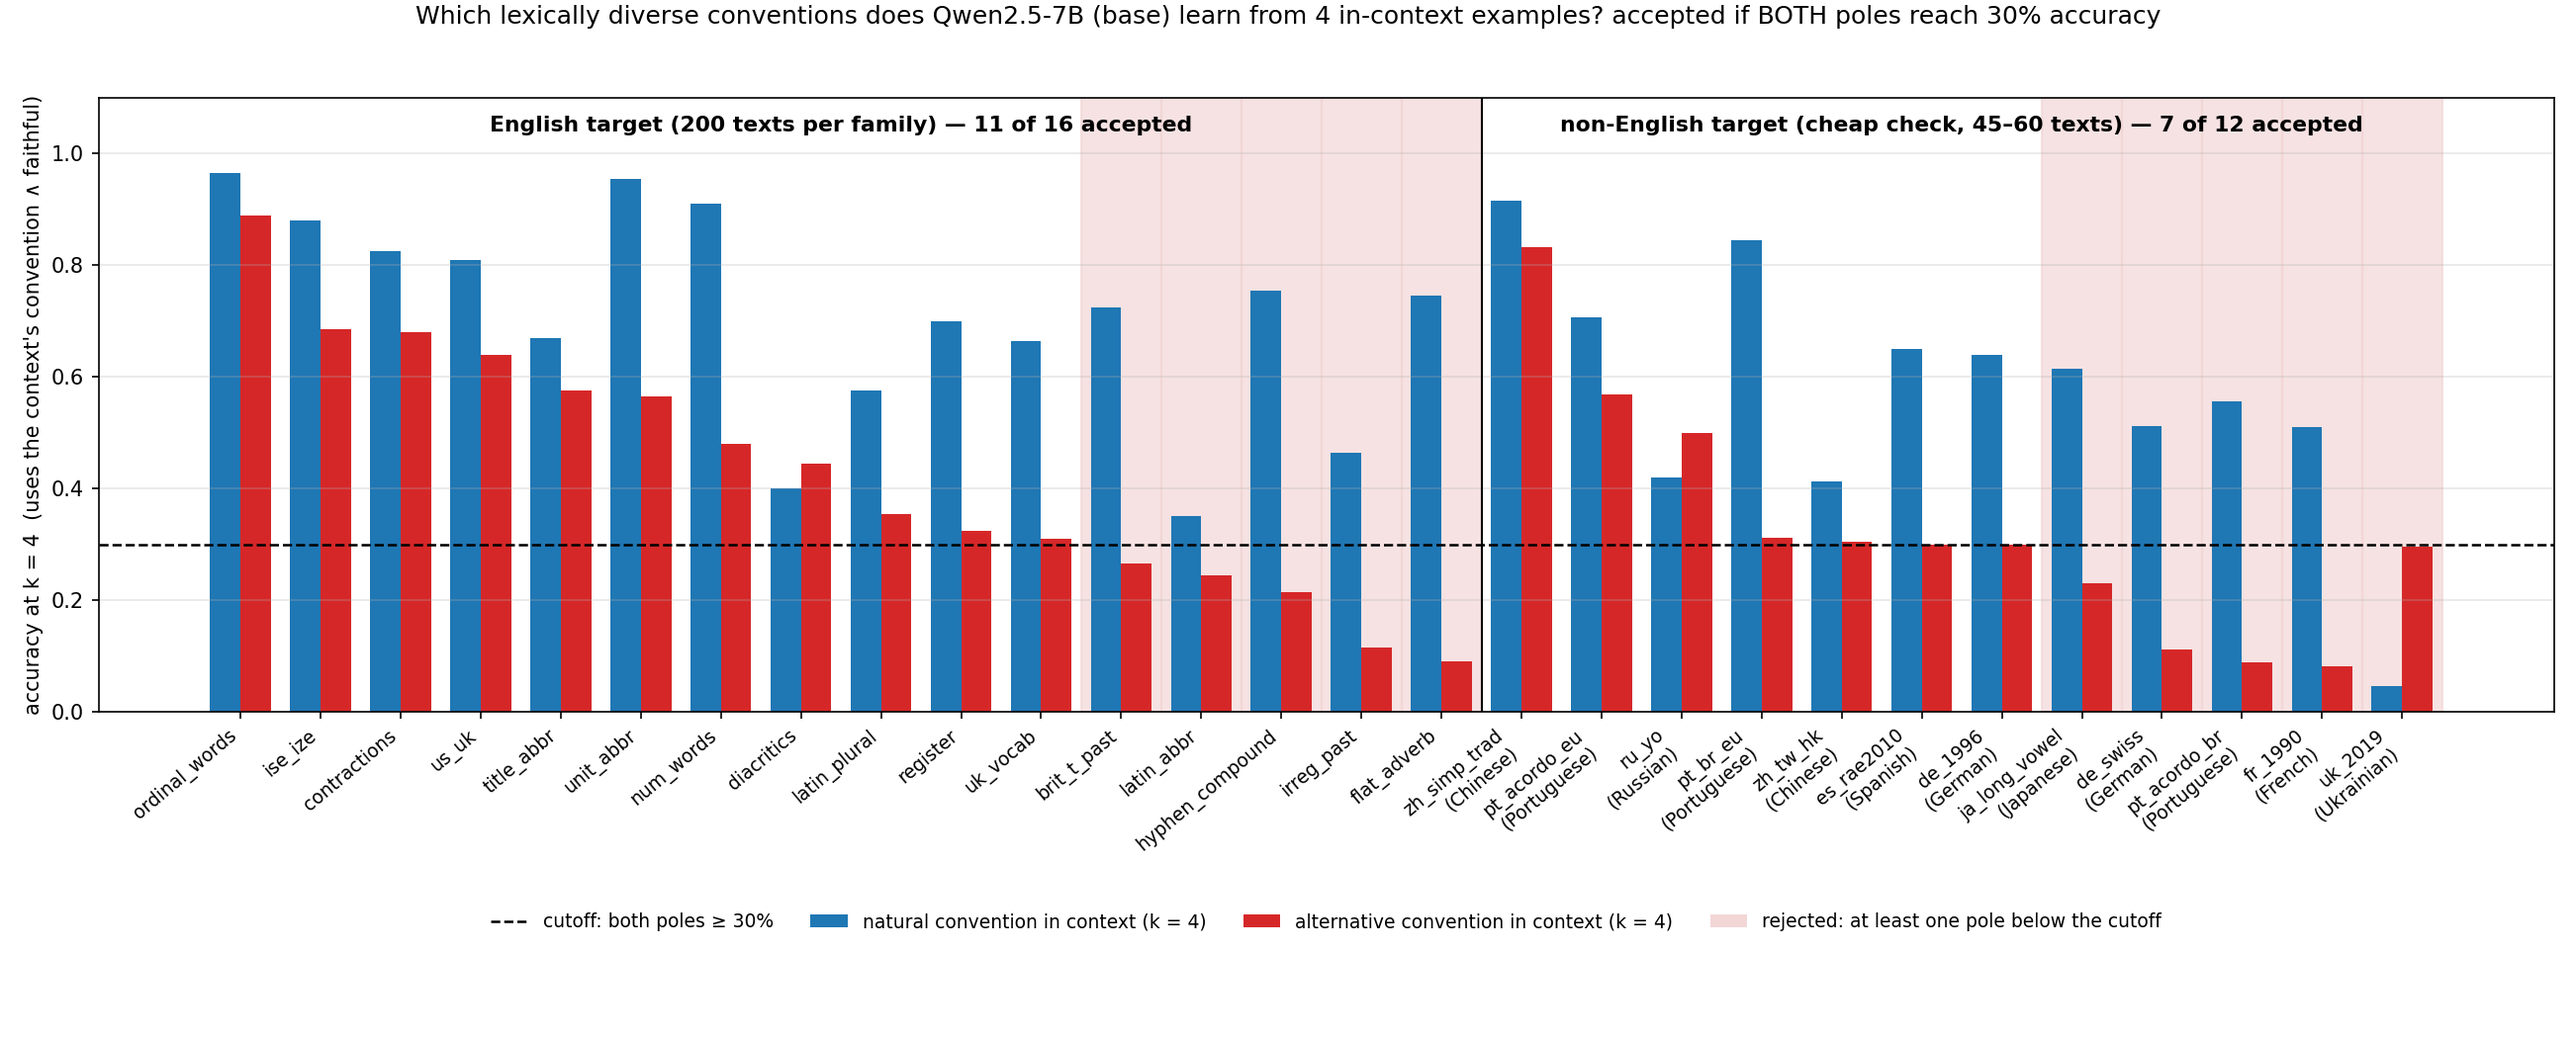
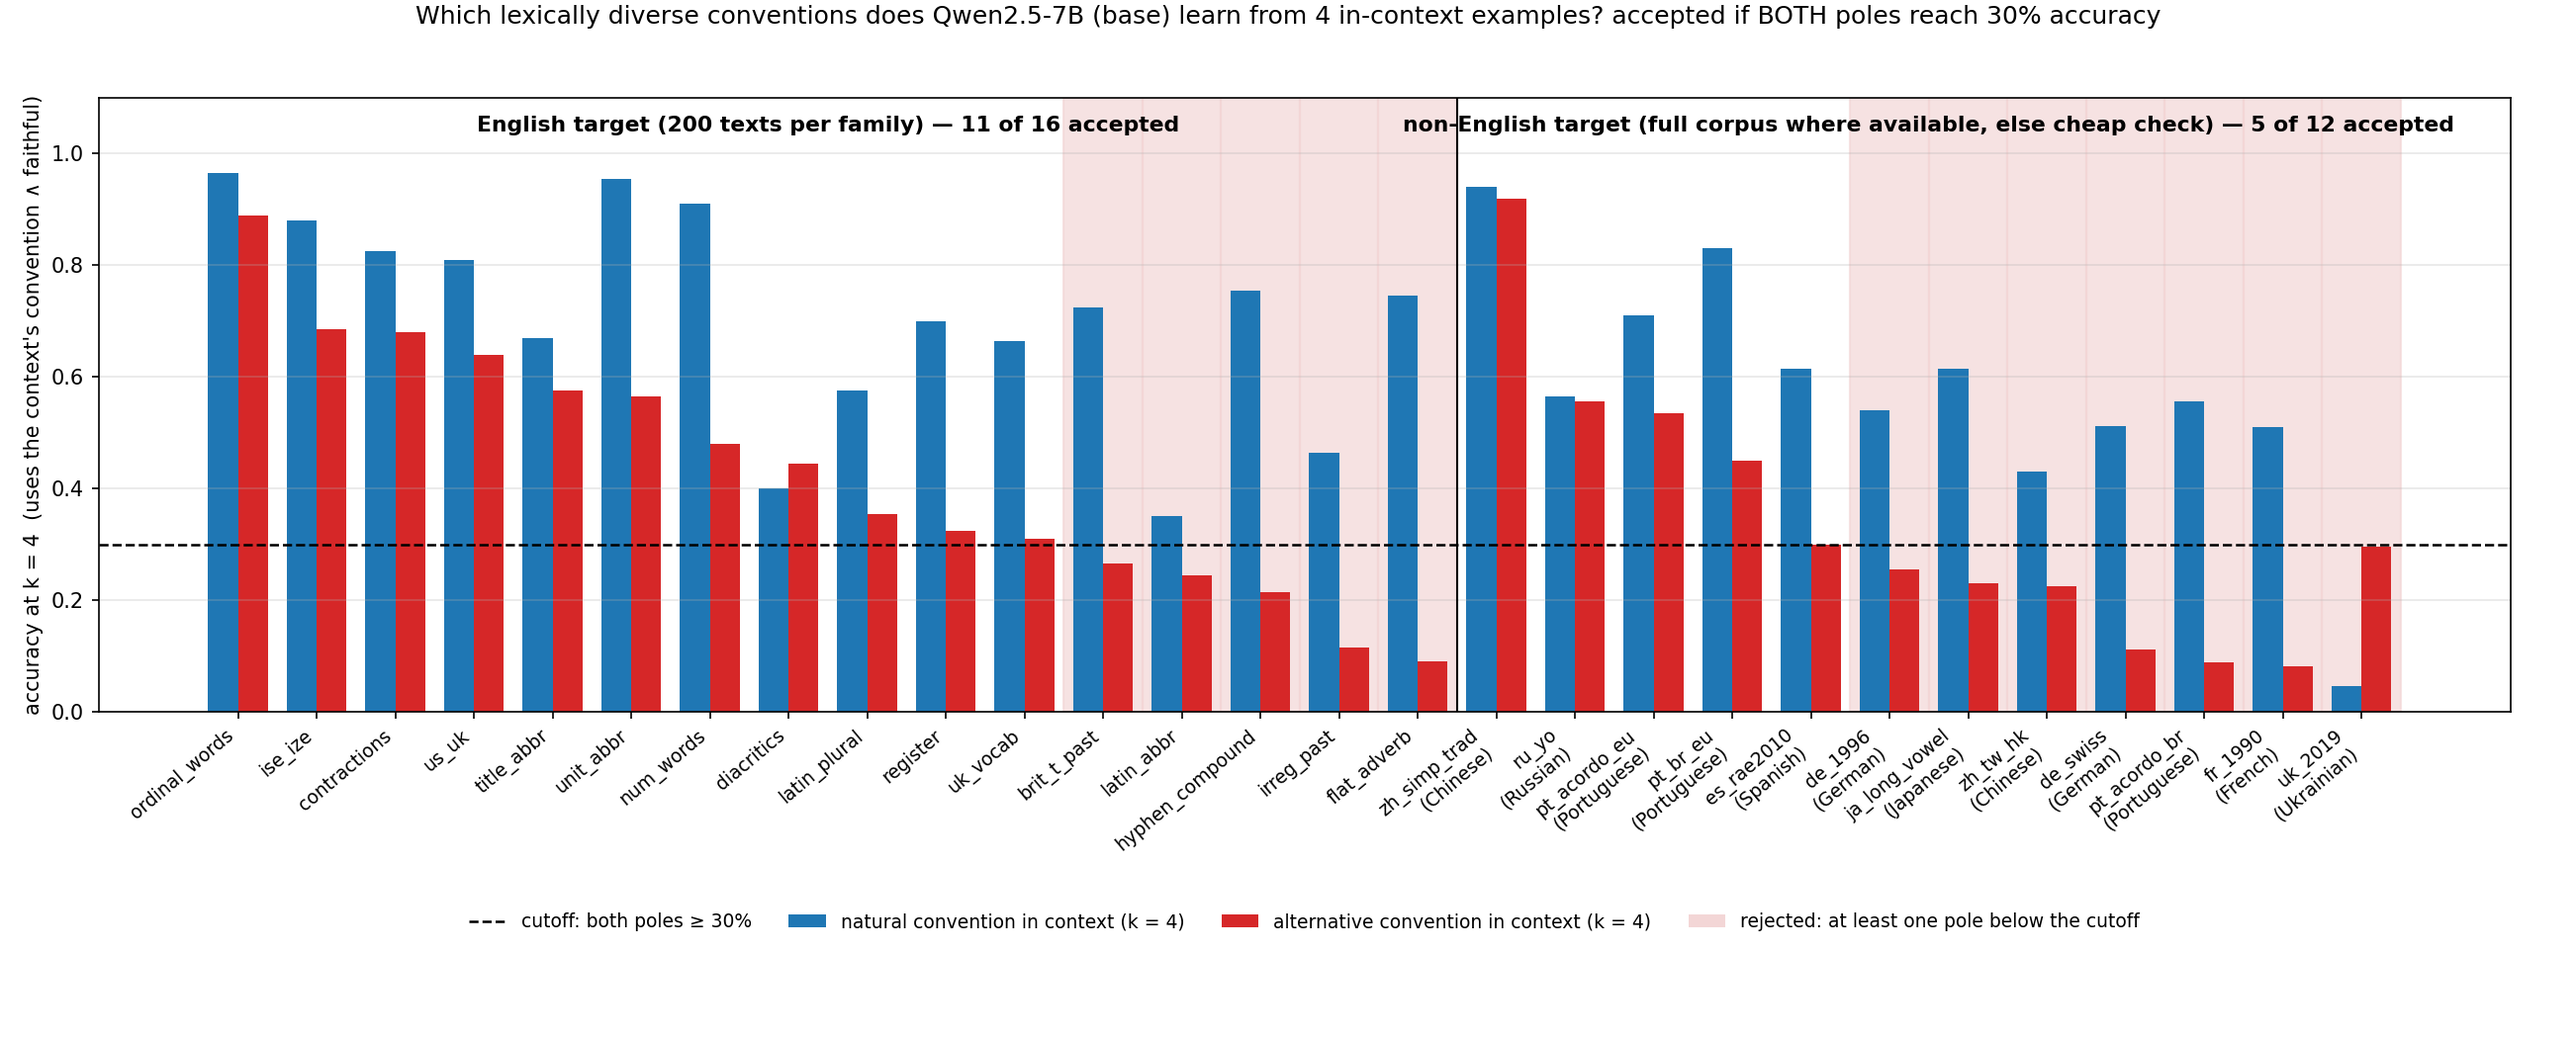
qwen25_base: step 3 for the 7 multilingual families (full corpus), pool = 16 after cutoff re-check (de_1996, zh_tw_hk dropped); DECISIONS entry

Changed region(s): [[0.0622, 0.0914, 0.9643, 0.8229], [0.1866, 0.8838, 0.8399, 0.9143], [0.0311, 0.7619, 0.0622, 0.7924]]

diff --git a/src/sandbox/style_translation/lexical_selection.py b/src/sandbox/style_translation/lexical_selection.py
@@ -29,7 +29,9 @@ def get(rows, fam, style, key="accuracy"):
 
 
 items = []
+ML_NAMES = {fm.name for fm in ML_FAMILIES}
 for f in LEXICAL:
+    if f in ML_NAMES: continue                    # multilingual families are handled below
     (a, n), (b, _) = get(en, f, "nat"), get(en, f, "alt")
     if np.isnan(a): continue
     items.append(dict(family=f, group="English", lang="English", nat=a, alt=b, n=n, nat_label=FAMILY[f].nat, alt_label=FAMILY[f].alt))

diff --git a/DECISIONS.md b/DECISIONS.md
@@ -1806,3 +1806,14 @@ by 1 − baseline (~0.1–0.2 on near-identical paired prompts) and conflates al
 
 - `src/sandbox/style_translation/models.py` is the model registry; `--model <key>` on `cue_tokens.py`, `build_prompts.py`, `rollout.py`, `analyze.py`. The default (`gptj`) keeps every existing path; any other model gets `artifacts/style_translation/<key>/{cues,prompts,rollouts}` and `results/style_translation/<key>/`. Cue tokens are tokeniser-specific and are recomputed per model; the GPT-J cues in `dataset_files/style_translation/pairs/` stay the dataset's cues.
 - `qwen25_base` = `Qwen/Qwen2.5-7B` (base, not Instruct), bf16, left padding, no BOS. Step 3 only (accuracy vs k) — steering/read-feature steps were not requested for it.
+
+## 2026-09-14 — Qwen2.5-7B base convention pool for the read/write-feature and read→write-map study
+- Pool = lexically diverse families whose k = 4 accuracy (convention ∧ faithful) is ≥ .30 for BOTH poles on the full 200-text corpus:
+  16 families — us_uk, ise_ize, contractions, num_words, ordinal_words, uk_vocab, register, diacritics, unit_abbr, latin_plural, title_abbr,
+  zh_simp_trad, pt_acordo_eu, pt_br_eu, es_rae2010, ru_yo (`results/style_translation/qwen25_base/pool.json`). Fixed-marker families are
+  excluded from both train and test. de_1996 and zh_tw_hk passed the cheap 45–60-text check but fell below on the full corpus → dropped.
+- Feature gate before a family enters the map: steered accuracy's Wilson CI excludes the unsteered rate, in both directions.
+- Generalisation test: leave-one-family-out over the pool + one fixed 2/3–1/3 split stratified by axis (British, Portuguese, Chinese, digits);
+  within-axis vs cross-axis hold-outs reported separately. Coverage diagnostics are computed before steering.
+- Multilingual corpora: English base text → Gemini adaptation in the natural pole with anchors → Gemini back-translation = source;
+  Gemini verification (fluent, natural pole only, anchors, faithful); cap 200 per family.
